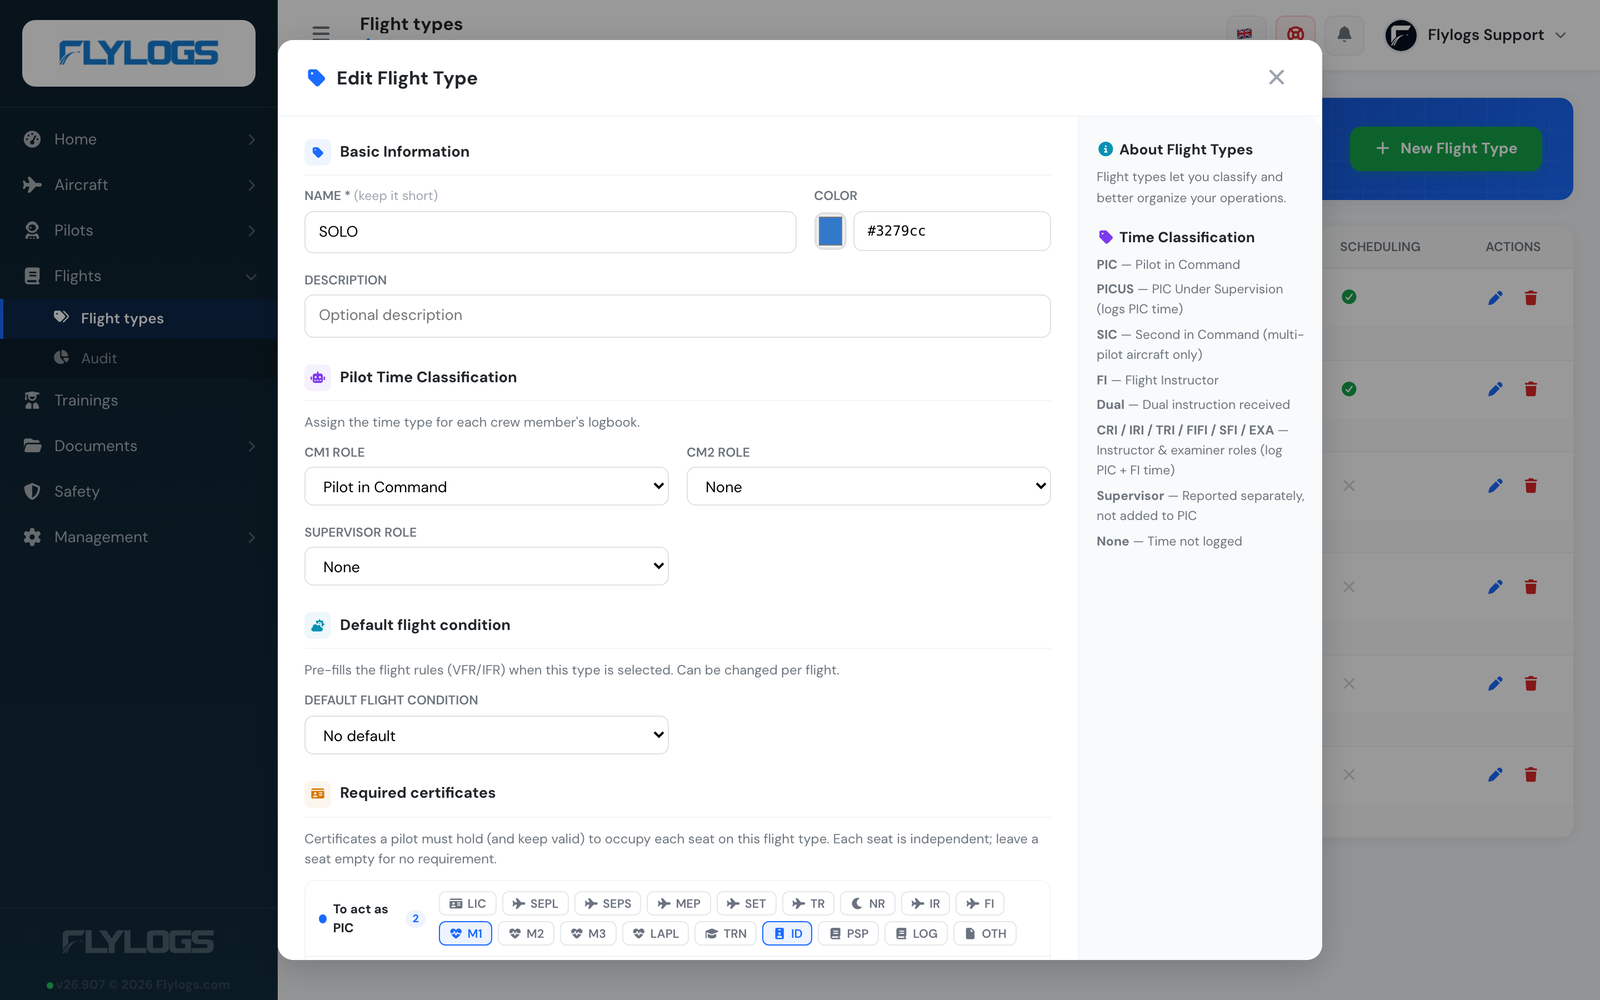
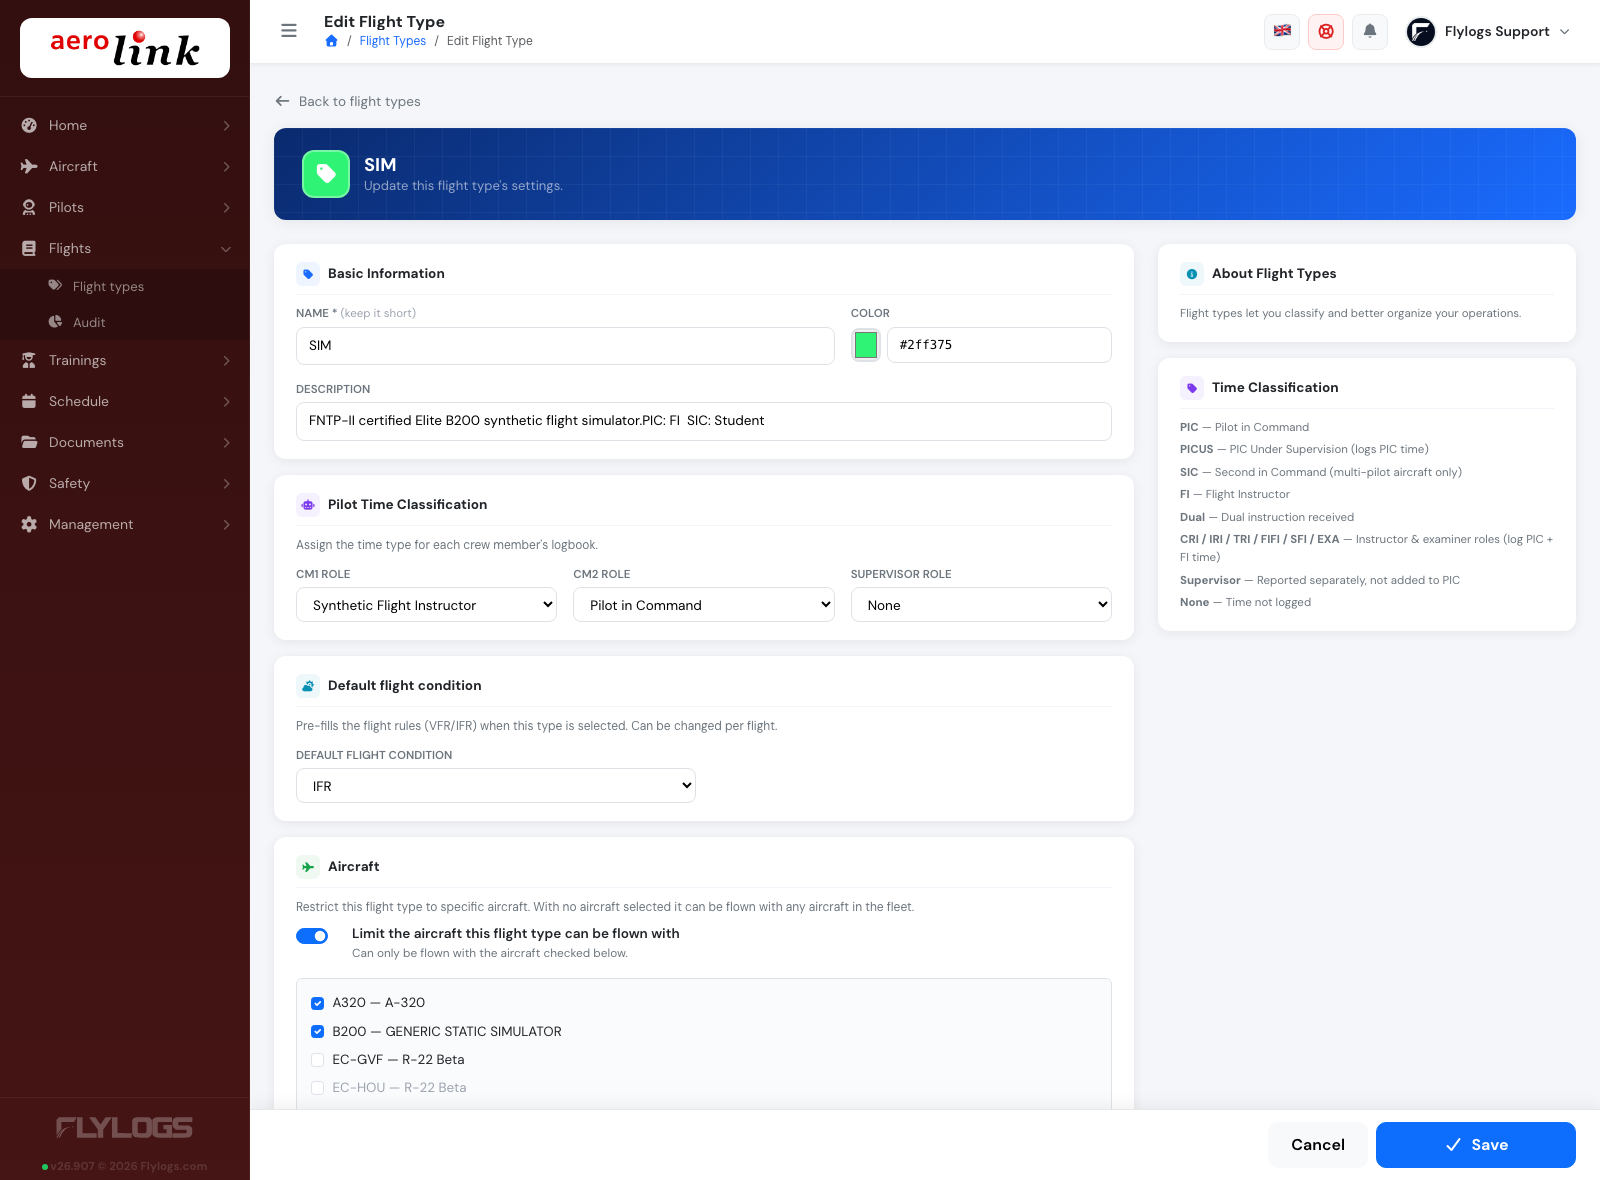
updates

diff --git a/flights/flight-types.md b/flights/flight-types.md
@@ -10,9 +10,9 @@ Each flight type belongs to your company. A starter set is created automatically
 
 ## Where to configure
 
-**Flights → Flight types.** Click **New Flight Type** to add one, or the pencil on a row to edit it. Drag rows by the handle at the left to change their order.
+**Flights → Flight types.** Click **New Flight Type** to add one, or the pencil on a row to edit it — both open a **full page**, not a pop-up, so there is room for every setting and you can link straight to a type. Drag rows by the handle at the left to change their order.
 
-<figure><img src="../.gitbook/assets/flight-types-list.png" alt="The flight types list, with one row per type and its three time-classification columns"><figcaption><p>Each row shows the three seats' time classification, whether the type is offered on scheduling, and the certificates required per seat.</p></figcaption></figure>
+<figure><img src="../.gitbook/assets/flight-types-list.png" alt="The flight types list, with one row per type and its three time-classification columns"><figcaption><p>Each row shows the three seats' time classification, whether the type is offered on scheduling, and — in the grey strip below it — the certificates required per seat and the aircraft the type is restricted to. Here <em>SIM</em> reads <strong>ONLY ON B200, A320</strong> and <em>ME</em> <strong>ONLY ON EC-HYP, EC-IPB</strong>; every other type carries no aircraft tag, so it flies with the whole fleet.</p></figcaption></figure>
 
 Flight types live in the manager area, so pilots and students never see this page; which of your staff roles can open it is decided by your company's role permissions. Reordering is stricter than the rest: it is refused for anyone above user group 110 (company administrators and above), so a manager who can create and edit types may still be unable to drag them into a new order.
 
@@ -32,7 +32,7 @@ The third seat is renamed to match your operation, from your company type: **Exa
 
 ## Options
 
-<figure><img src="../.gitbook/assets/flight-type-form.png" alt="The flight type edit form, showing basic information, pilot time classification, default flight condition and required certificates"><figcaption><p>The flight type form. The side panel repeats what each time classification credits.</p></figcaption></figure>
+<figure><img src="../.gitbook/assets/flight-type-form.png" alt="The flight type page, with each setting group on its own card: basic information, pilot time classification, default flight condition and aircraft"><figcaption><p>The flight type page. Each group of settings sits on its own card, so you can jump to the one you came for instead of reading down a single long form. The panel on the right stays in view and repeats what each time classification credits.</p></figcaption></figure>
 
 ### Name
 
@@ -106,6 +106,34 @@ See [FTL Compliance & Forecast](../schedules/ftl-compliance-forecast.md) for how
 
 Optionally set **VFR** or **IFR** as the type's default. When a crew member picks this flight type on the flight form, the flight's **Rules** field is pre-filled with that value (you can still change it per flight). Leave it empty for no default.
 
+### Aircraft
+
+Some flight types only make sense on part of the fleet. A simulator type belongs on the simulators, a multi-engine type on the twins, a glider-tow type on the tug. The **Aircraft** card is where you say so.
+
+<figure><img src="../.gitbook/assets/flight-type-aircraft.png" alt="The Aircraft card on a flight type, with the limit switch on and two simulators ticked"><figcaption><p>The <em>SIM</em> flight type restricted to the two simulators. Aircraft in grey (EC-HOU, EC-IOC, EC-IRE here) are inactive — they can still be ticked, and stay ticked while they are parked.</p></figcaption></figure>
+
+The rule has exactly two states:
+
+| The list is… | The flight type… |
+|--------------|------------------|
+| **empty** (switch off) | can be flown with **any** aircraft in your fleet — this is the default, and how every existing flight type behaves |
+| **has aircraft in it** | can **only** be flown with the aircraft you ticked |
+
+An empty list is therefore never "no aircraft allowed", it is "no restriction" — the same convention as [pilot attributions](../crew-management/pilot-attributions.md). Turning the switch back off clears the list and reopens the type to the whole fleet.
+
+Two consequences worth knowing before you tick anything:
+
+* **Ticking everything is not the same as ticking nothing.** A type with the whole current fleet ticked is still a closed list, so an aircraft you buy next year will *not* be able to fly it until someone adds it. If what you mean is "anything", leave the switch off.
+* **Parking an aircraft keeps it on the list.** Marking an aircraft inactive does not quietly widen the restriction — the link survives so the type still means what you set when the aircraft comes back. Deleting an aircraft does drop it.
+
+Restricted aircraft show as green tags under the type in the flight types list, so the whole fleet mapping is readable at a glance without opening each type one by one.
+
+#### Editing it from the aircraft instead
+
+The same links can be edited from the other end, on the aircraft's own page — see [Which flight types an aircraft can fly](../aircraft/create-your-aircraft.md#which-flight-types-an-aircraft-can-fly). It is one relationship seen from two sides, so a change made there shows up here and vice versa.
+
+> **Rolling out:** this release stores and displays the restriction, and the aircraft page above manages it. Applying it to the aircraft picker on the flight form and in the schedule editor is the next step, so until then the pickers still offer the whole fleet.
+
 ### Visibility — visible on self-booking
 
 A toggle (shown as the **Scheduling** column in the list) that controls whether the flight type appears in the **self-booking / scheduling** flight-type picker. Turn it off for types that should only be used when logging a flight after the fact (e.g. Test or Ferry), and on for the everyday operations crew book themselves onto.
@@ -126,6 +154,7 @@ Define, **per seat** (*To act as PIC* / *To act as SIC* / *To act as Supervisor*
 * **Logbook time.** The CM1 / CM2 / Supervisor classifications above decide exactly what time each crew member's logbook receives — and how it rolls up into their PIC / FI totals.
 * **Duty and FDP.** Independently of the classification, everyone in any of the three seats on a confirmed flight gets that flight folded into their duty day and counted as an FDP sector.
 * **Rules pre-fill.** Choosing the type on the flight form sets the flight's VFR/IFR rules from the type's default flight condition.
+* **Aircraft.** A type restricted to specific aircraft can only be flown with those; an unrestricted type works with the whole fleet.
 * **Crew documentation.** Under each selected CM1/CM2 on the flight form, a badge names any required certificate that person is missing or expired for that flight type. The seat's classification is also shown next to its label, so you can see at a glance what the seat will log.
 
 ### Schedules, dispatch & booking

diff --git a/whats-new/flight-type-aircraft-restriction.md b/whats-new/flight-type-aircraft-restriction.md
@@ -1,0 +1,61 @@
+# New: restrict a flight type to specific aircraft
+
+**September 2026** · Flights & Fleet
+
+A flight type can now be tied to the aircraft it actually belongs on. A simulator type on the simulators, a multi-engine type on the twins, a tow type on the tug — instead of every flight type being offered on every aircraft in the fleet.
+
+The same release moves the flight type form out of its pop-up and onto its own page.
+
+***
+
+### Why we built it
+
+Flight types drive logbook credit, scheduling and crew requirements, but until now they had nothing to say about metal. A school with two simulators, four singles and a twin offered all of its types on all of its aircraft, and the only thing stopping *ME* being logged on a Katana was somebody noticing. The mismatch surfaced late — in a logbook, a report, or an audit — rather than at the moment of choosing.
+
+***
+
+### How it works
+
+Open **Flights → Flight types** and edit a type. The new **Aircraft** card has one switch and a list.
+
+<figure><img src="../.gitbook/assets/flight-type-aircraft.png" alt="The Aircraft card on a flight type, with the limit switch on and two simulators ticked"><figcaption><p>The <em>SIM</em> type restricted to the two simulators.</p></figcaption></figure>
+
+* **Switch off (the default).** No aircraft attached — the type can be flown with **any** aircraft in your fleet. Every flight type you already have is in this state and stays there; nothing changed for them.
+* **Switch on, aircraft ticked.** The type can **only** be flown with the aircraft you ticked.
+
+An empty list is "no restriction", never "no aircraft allowed" — the same convention [pilot attributions](../crew-management/pilot-attributions.md) already use. Two details that follow from it:
+
+* **Ticking every aircraft is not the same as ticking none.** The full fleet ticked is still a closed list, so an aircraft bought next year will not be able to fly that type until someone adds it. If you mean "anything", leave the switch off.
+* **Parking an aircraft keeps it on the list.** Marking an aircraft inactive does not quietly widen a restriction; the link waits for it to come back.
+
+Restricted aircraft show as green tags under the type in the flight types list, so the fleet mapping is readable without opening every type.
+
+<figure><img src="../.gitbook/assets/flight-types-list.png" alt="The flight types list, with ONLY ON aircraft tags under the restricted types"><figcaption><p><em>SIM</em> and <em>ME</em> carry an <strong>ONLY ON</strong> tag; the rest have none and fly with the whole fleet.</p></figcaption></figure>
+
+***
+
+### Or set it from the aircraft
+
+The aircraft edit page gained a matching **Flight types** card, so you can approach it from whichever end is quicker — one type across two simulators, or one newly delivered aircraft across the three types it may fly.
+
+<figure><img src="../.gitbook/assets/aircraft-flight-types.png" alt="The Flight types card on the aircraft edit page"><figcaption><p>The B200 simulator, attributed to the <em>SIM</em> type.</p></figcaption></figure>
+
+It is one relationship seen from two sides, so a change in either place shows up in the other. The empty state keeps the flight type's meaning rather than the aircraft's: an aircraft with nothing ticked is **not** grounded — it flies every flight type that has no aircraft attributed at all, which is the normal state for most of a fleet.
+
+***
+
+### The flight type form is now a page
+
+Creating or editing a flight type used to open a pop-up. It now opens as a full page, with each group of settings on its own card — basic information, pilot time classification, default flight condition, aircraft, required certificates, visibility.
+
+<figure><img src="../.gitbook/assets/flight-type-form.png" alt="The flight type page with each setting group on its own card"><figcaption><p>Each group of settings on its own card, with the time-classification reference in view on the right.</p></figcaption></figure>
+
+Practically: more room as flight types keep gaining settings, a link you can send someone, and a browser back button that behaves.
+
+***
+
+### Rolling out
+
+This release stores, displays and manages the restriction from both pages. Applying it to the aircraft picker on the flight form and in the schedule editor is the next step — until then those pickers still offer the whole fleet.
+
+See [Flight Types → Aircraft](../flights/flight-types.md#aircraft) for the full reference.

diff --git a/API/flight-types.md b/API/flight-types.md
@@ -54,11 +54,17 @@ List active (non-deleted) flight types for the company, ordered by `order` field
         "booking": true,
         "order": "0",
         "deleted": false
+      },
+      "Aircraft": {
+        "12": "EC-KMH",
+        "18": "EC-JMZ"
       }
     }
   ]
 }
 ```
+
+`Aircraft` is the [fleet restriction](#aircraft-restriction-optional) as `id → registration`. It is **always present**, and an **empty** value (`[]`) means the type is unrestricted — see below.
 
 ---
 
@@ -70,7 +76,7 @@ List all flight types including soft-deleted ones. Intended for management views
 
 #### Response
 
-Same structure as `index`, includes all records regardless of `deleted` status.
+Same structure as `index` (including `Aircraft`), includes all records regardless of `deleted` status.
 
 ---
 
@@ -122,6 +128,44 @@ Create a new flight type. Also returns the `flightClassification` reference data
 | FlightType.pic_flight_time | string | No | PIC time classification key |
 | FlightType.sic_flight_time | string | No | SIC time classification key |
 | FlightType.supervisor_flight_time | string | No | Supervisor time classification key. Defaults to `none` |
+
+#### Aircraft restriction (optional)
+
+A flight type can be restricted to a subset of the fleet. The rule is the same "empty means unrestricted" convention used by [pilot attributions](pilots.md):
+
+| Links | Meaning |
+|-------|---------|
+| **none** | The flight type can be flown with **any** of the company's aircraft |
+| **one or more** | The flight type can **only** be flown with those aircraft |
+
+An empty list is therefore never "no aircraft allowed". Listing every aircraft in the fleet and sending no list at all are **not** the same thing: the explicit list keeps rejecting aircraft added later, the empty one does not.
+
+Send the links as a standard HABTM list alongside the `FlightType` fields (applies to both `manager_add` and `manager_edit`):
+
+| Field | Type | Required | Description |
+|-------|------|----------|-------------|
+| Aircraft.Aircraft[] | array | No | Aircraft ids the type is restricted to. When the key is present it **replaces** the whole set; an empty value clears the restriction. When the key is **absent**, existing links are left untouched — so a client that predates this feature cannot wipe a restriction it does not know about. |
+
+Ids that do not belong to the authenticated company are dropped silently. Inactive aircraft are accepted and kept (parking an aircraft must not widen a restriction); links to deleted aircraft are not returned.
+
+The same links can be written from the aircraft end — `POST /aircraft/edit.json` accepts `FlightType.FlightType[]` with identical semantics (key absent = untouched, empty = detach from every flight type, foreign ids dropped), and `GET /aircraft/view/{id}.json` returns the aircraft's attributed flight types under `FlightType`. See [Aircraft](aircraft.md). Detaching the last aircraft from a flight type makes that flight type unrestricted again — that is the empty-set rule, not a special case.
+
+Example (form-encoded) — restrict to two aircraft:
+
+```
+data[FlightType][name]=OPC Simulator
+data[Aircraft][Aircraft][]=12
+data[Aircraft][Aircraft][]=18
+```
+
+Clear the restriction (fly with anything):
+
+```
+data[FlightType][name]=OPC Simulator
+data[Aircraft][Aircraft][]=
+```
+
+> **Advisory for now:** the restriction is stored and returned, but nothing enforces it yet — the flight form and schedule editor still accept any aircraft. Treat it as configuration until the enforcing release lands.
 
 #### Required certificates (optional)
 
@@ -208,6 +252,8 @@ Same fields as create, wrapped under `FlightType`.
 
 `requiredCertificates` is the flat list of the flight type's per-seat requirements (see [Required certificates](#required-certificates-optional) above).
 
+`attributedAircraft` is the [fleet restriction](#aircraft-restriction-optional) as `id → registration`, and is `[]` when the type is unrestricted. It is a map rather than a bare id list so a client can label an aircraft that is missing from its own cached fleet.
+
 ```json
 {
   "flights": 42,
@@ -216,7 +262,11 @@ Same fields as create, wrapped under `FlightType`.
     { "role": "pic", "certificate_type": "licence" },
     { "role": "pic", "certificate_type": "medical_class_1" },
     { "role": "sic", "certificate_type": "medical_class_2" }
-  ]
+  ],
+  "attributedAircraft": {
+    "12": "EC-KMH",
+    "18": "EC-JMZ"
+  }
 }
 ```
 

diff --git a/aircraft/create-your-aircraft.md b/aircraft/create-your-aircraft.md
@@ -77,6 +77,29 @@ A live counter under the dropdown shows how many pilots would have self-schedule
 
 <figure><img src="../.gitbook/assets/aircraftSelfScheduleAccess.png" alt=""><figcaption><p>Scheduling settings on the aircraft edit page.</p></figcaption></figure>
 
+***
+
+### Which flight types an aircraft can fly
+
+Under **Scheduling** on the aircraft edit page there is a **Flight types** card. It is the aircraft's side of the aircraft restriction that lives on the [flight type](../flights/flight-types.md#aircraft) — the same setting, edited from whichever end is more convenient. Restricting one simulator type to two simulators is quicker from the flight type; setting up a newly delivered twin for the three types it may fly is quicker from here.
+
+<figure><img src="../.gitbook/assets/aircraft-flight-types.png" alt="The Flight types card on the aircraft edit page, with the limit switch on and the SIM flight type ticked"><figcaption><p>The B200 simulator, attributed to the <em>SIM</em> flight type. Every flight type in the company is listed; tick the ones this aircraft should be attributed to.</p></figcaption></figure>
+
+The important part is what an **empty** selection means, because it is not what it first looks like:
+
+| Nothing ticked | This aircraft flies **every flight type that has no aircraft attributed to it at all** |
+|---|---|
+| **Something ticked** | Those flight types become restricted to this aircraft (plus any other aircraft already attributed to them) |
+
+So an aircraft with nothing ticked is **not grounded** — that is the normal state for most of a fleet, and it is why the card starts empty on every existing aircraft. The reading of an empty list belongs to the flight type, not to the aircraft: a flight type nobody has restricted is open to everything.
+
+Two things follow from that, and the card says so in the note under it:
+
+* **Ticking a flight type here restricts that flight type.** If *Night* was open to the whole fleet and you tick it on one aircraft, *Night* is now flyable on that aircraft only. That is a company-wide change made from an aircraft page — deliberate, but worth knowing before you tick.
+* **Unticking the last aircraft reopens the flight type.** Remove the only aircraft attributed to a type and the type goes back to "any aircraft", not "no aircraft".
+
+If you want an aircraft simply excluded from one flight type, do it from the [flight type](../flights/flight-types.md#aircraft) instead: tick the aircraft that *may* fly it, and everything else is excluded by construction.
+
 Your aircraft can also be configured for rental individually. You can specify different rental rates for different services. This rates at the same time, can also be customized for each pilot later on.
 
 Flylogs will automatically calculate the correct amount to be billed based on the flight information. Billing by block time, flight time or tach time can be configured.

diff --git a/API/aircraft.md b/API/aircraft.md
@@ -93,7 +93,7 @@ Retrieve aircraft attributed to the authenticated user.
 
 <mark style="color:blue;">`GET`</mark> `/aircraft/view/{id}.json`
 
-Retrieve full details for a single aircraft, including maintenance, rates, and logbook reference.
+Retrieve full details for a single aircraft, including maintenance, rates, logbook reference and the flight types the aircraft is attributed to (`FlightType`, an array of `{id, name, color}` — empty is the normal case and means the aircraft flies every unrestricted flight type; see [Flight-type attributions](#flight-type-attributions-optional)).
 
 #### Path Parameters
 
@@ -419,6 +419,38 @@ Add a new aircraft to the fleet. Admin access required.
 <mark style="color:green;">`POST`</mark> `/aircraft/edit.json`
 
 Update aircraft details. Admin access required.
+
+#### Flight-type attributions (optional)
+
+The aircraft end of the fleet restriction that flight types own (see [Flight Types → Aircraft restriction](flight-types.md#aircraft-restriction-optional)). The rows are the same rows; only the direction of editing differs, so an empty set is read the flight type's way:
+
+| Links | Meaning |
+|-------|---------|
+| **none** | The aircraft flies every flight type that itself names **no** aircraft. It is not grounded. |
+| **one or more** | Those flight types are restricted to this aircraft (plus whatever other aircraft they name). |
+
+| Field | Type | Required | Description |
+|-------|------|----------|-------------|
+| FlightType.FlightType[] | array | No | Flight type ids this aircraft is attributed to. When the key is present it **replaces** the whole set; an empty value detaches the aircraft from every flight type. When the key is **absent**, existing links are left untouched — so an older client posting an aircraft edit cannot wipe restrictions it knows nothing about. |
+
+Ids outside the authenticated company are dropped silently. Detaching the last aircraft from a flight type makes that flight type unrestricted again, which reopens it to the whole fleet — that is the empty-set rule, not a special case.
+
+`POST /aircraft/add.json` does **not** accept these: it saves the `Aircraft` fields alone and would drop the links silently. Attribute the aircraft in a follow-up edit.
+
+Example (form-encoded):
+
+```
+data[Aircraft][id]=45
+data[FlightType][FlightType][]=524
+data[FlightType][FlightType][]=368
+```
+
+Detach from everything:
+
+```
+data[Aircraft][id]=45
+data[FlightType][FlightType][]=
+```
 
 ---
 
